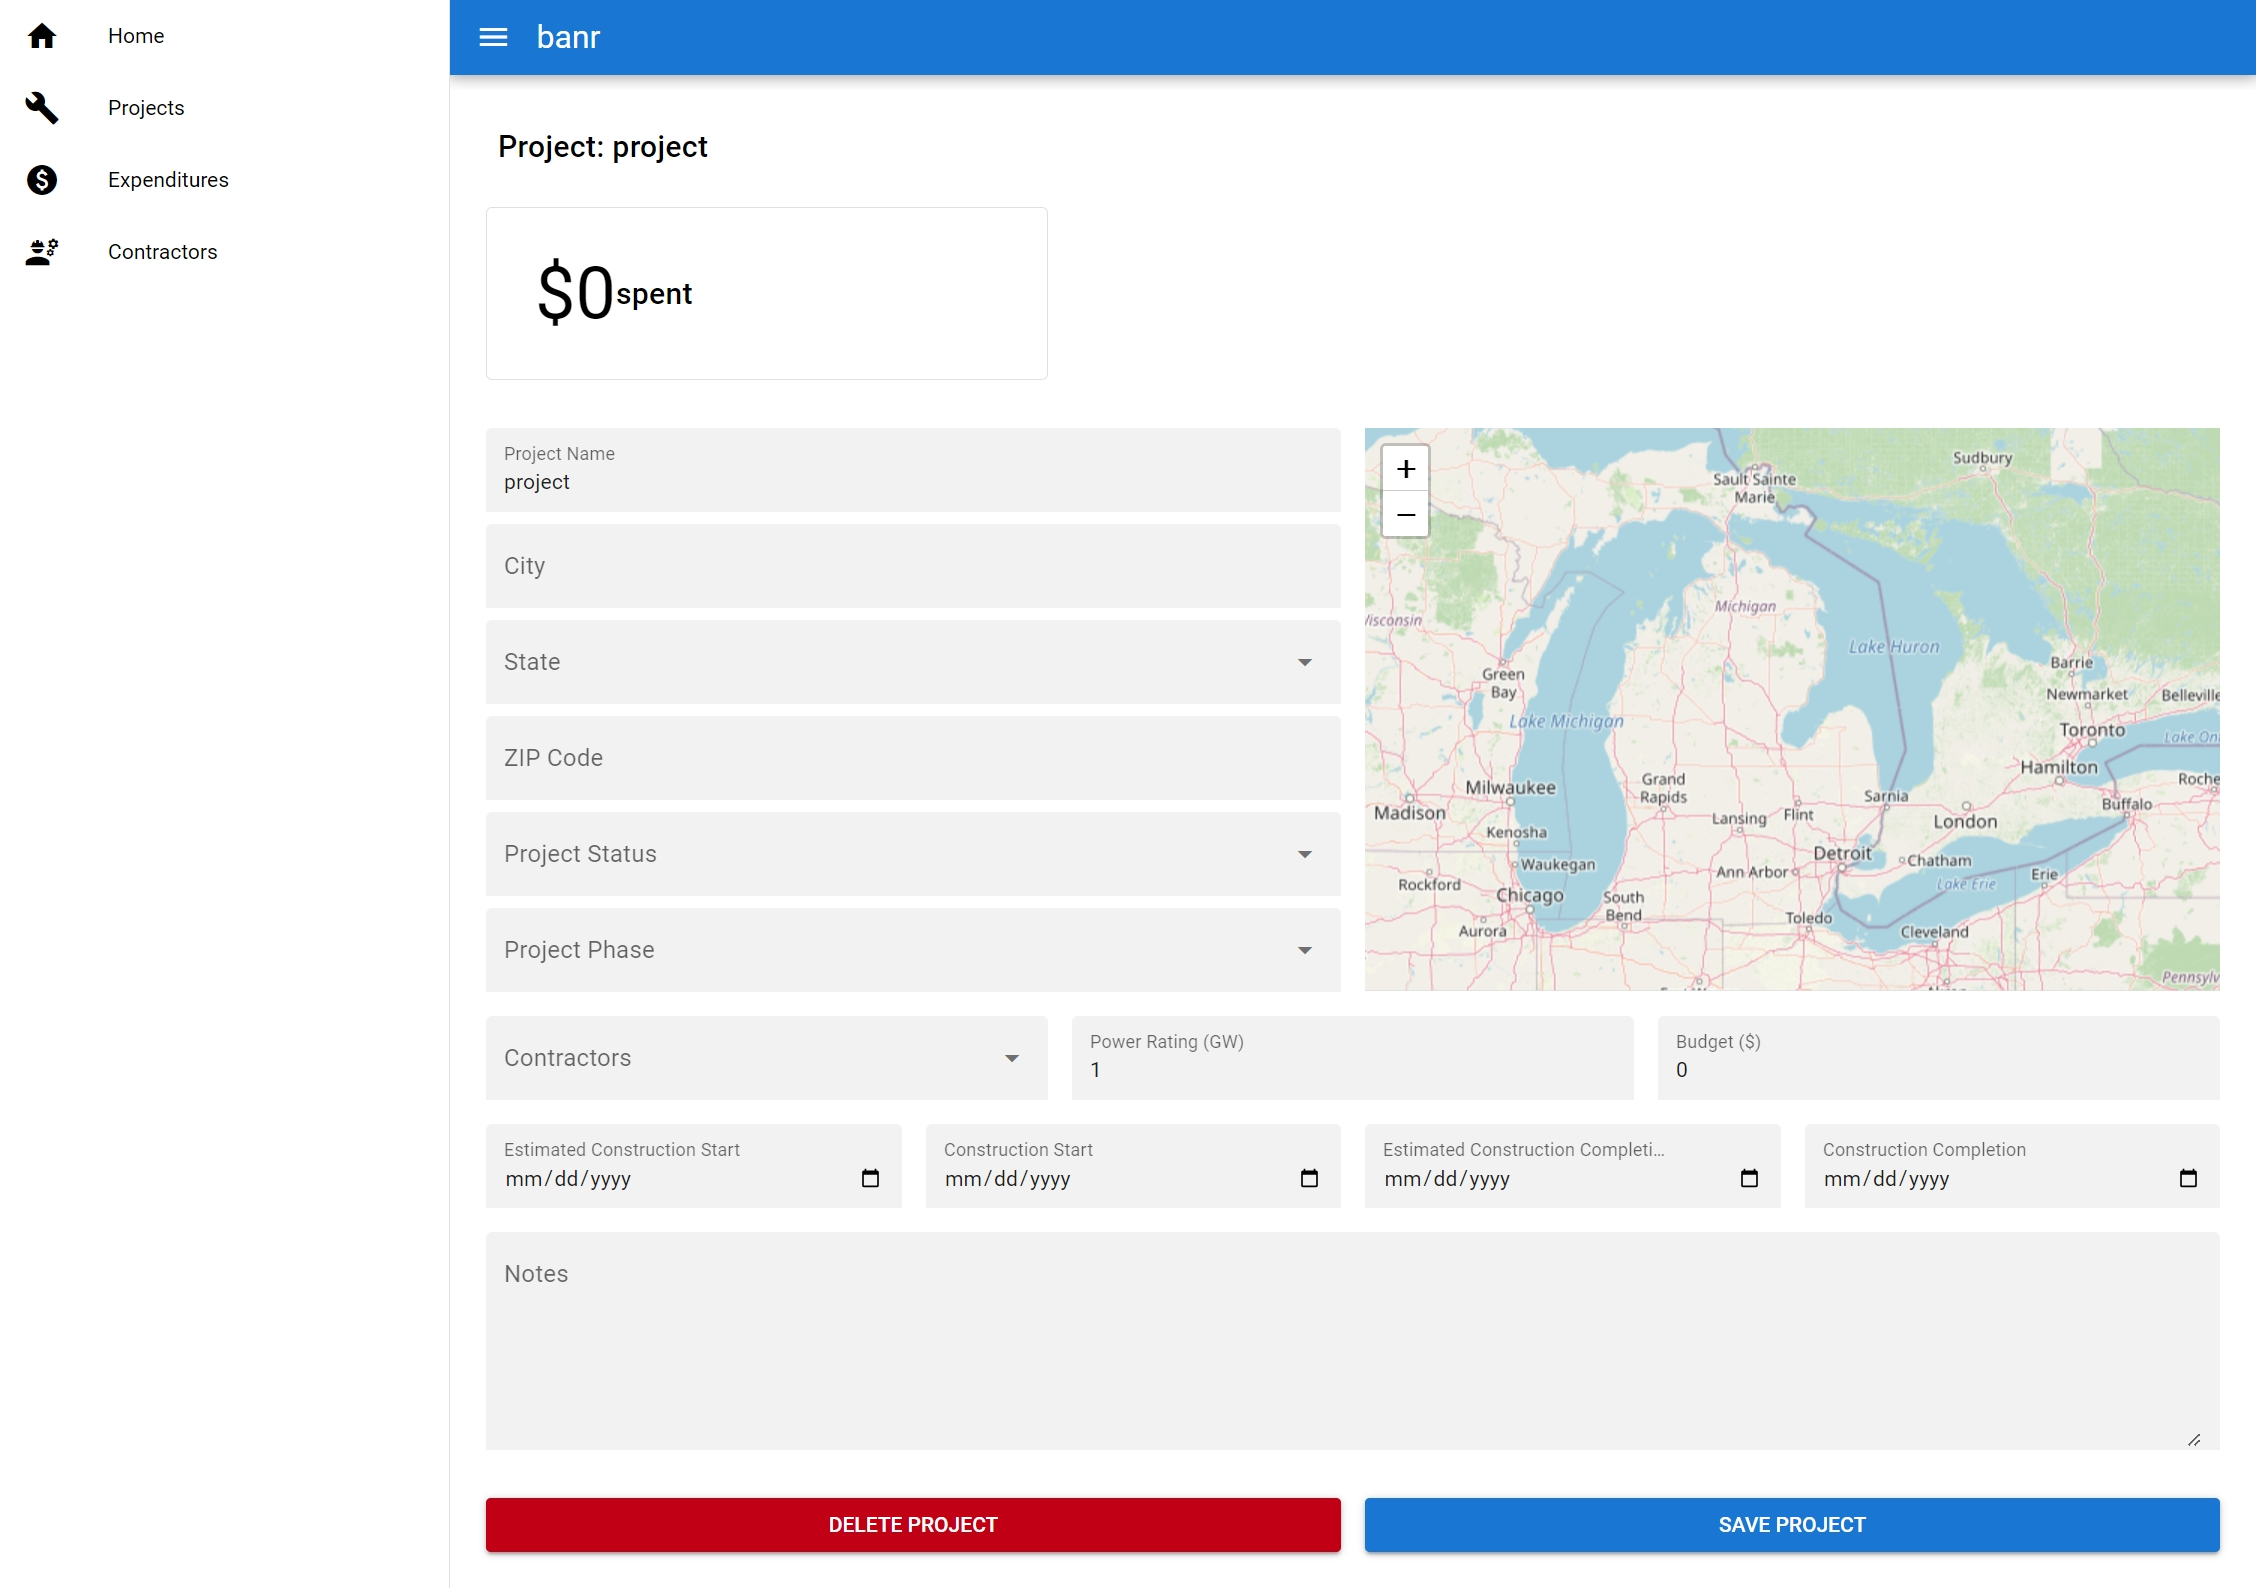
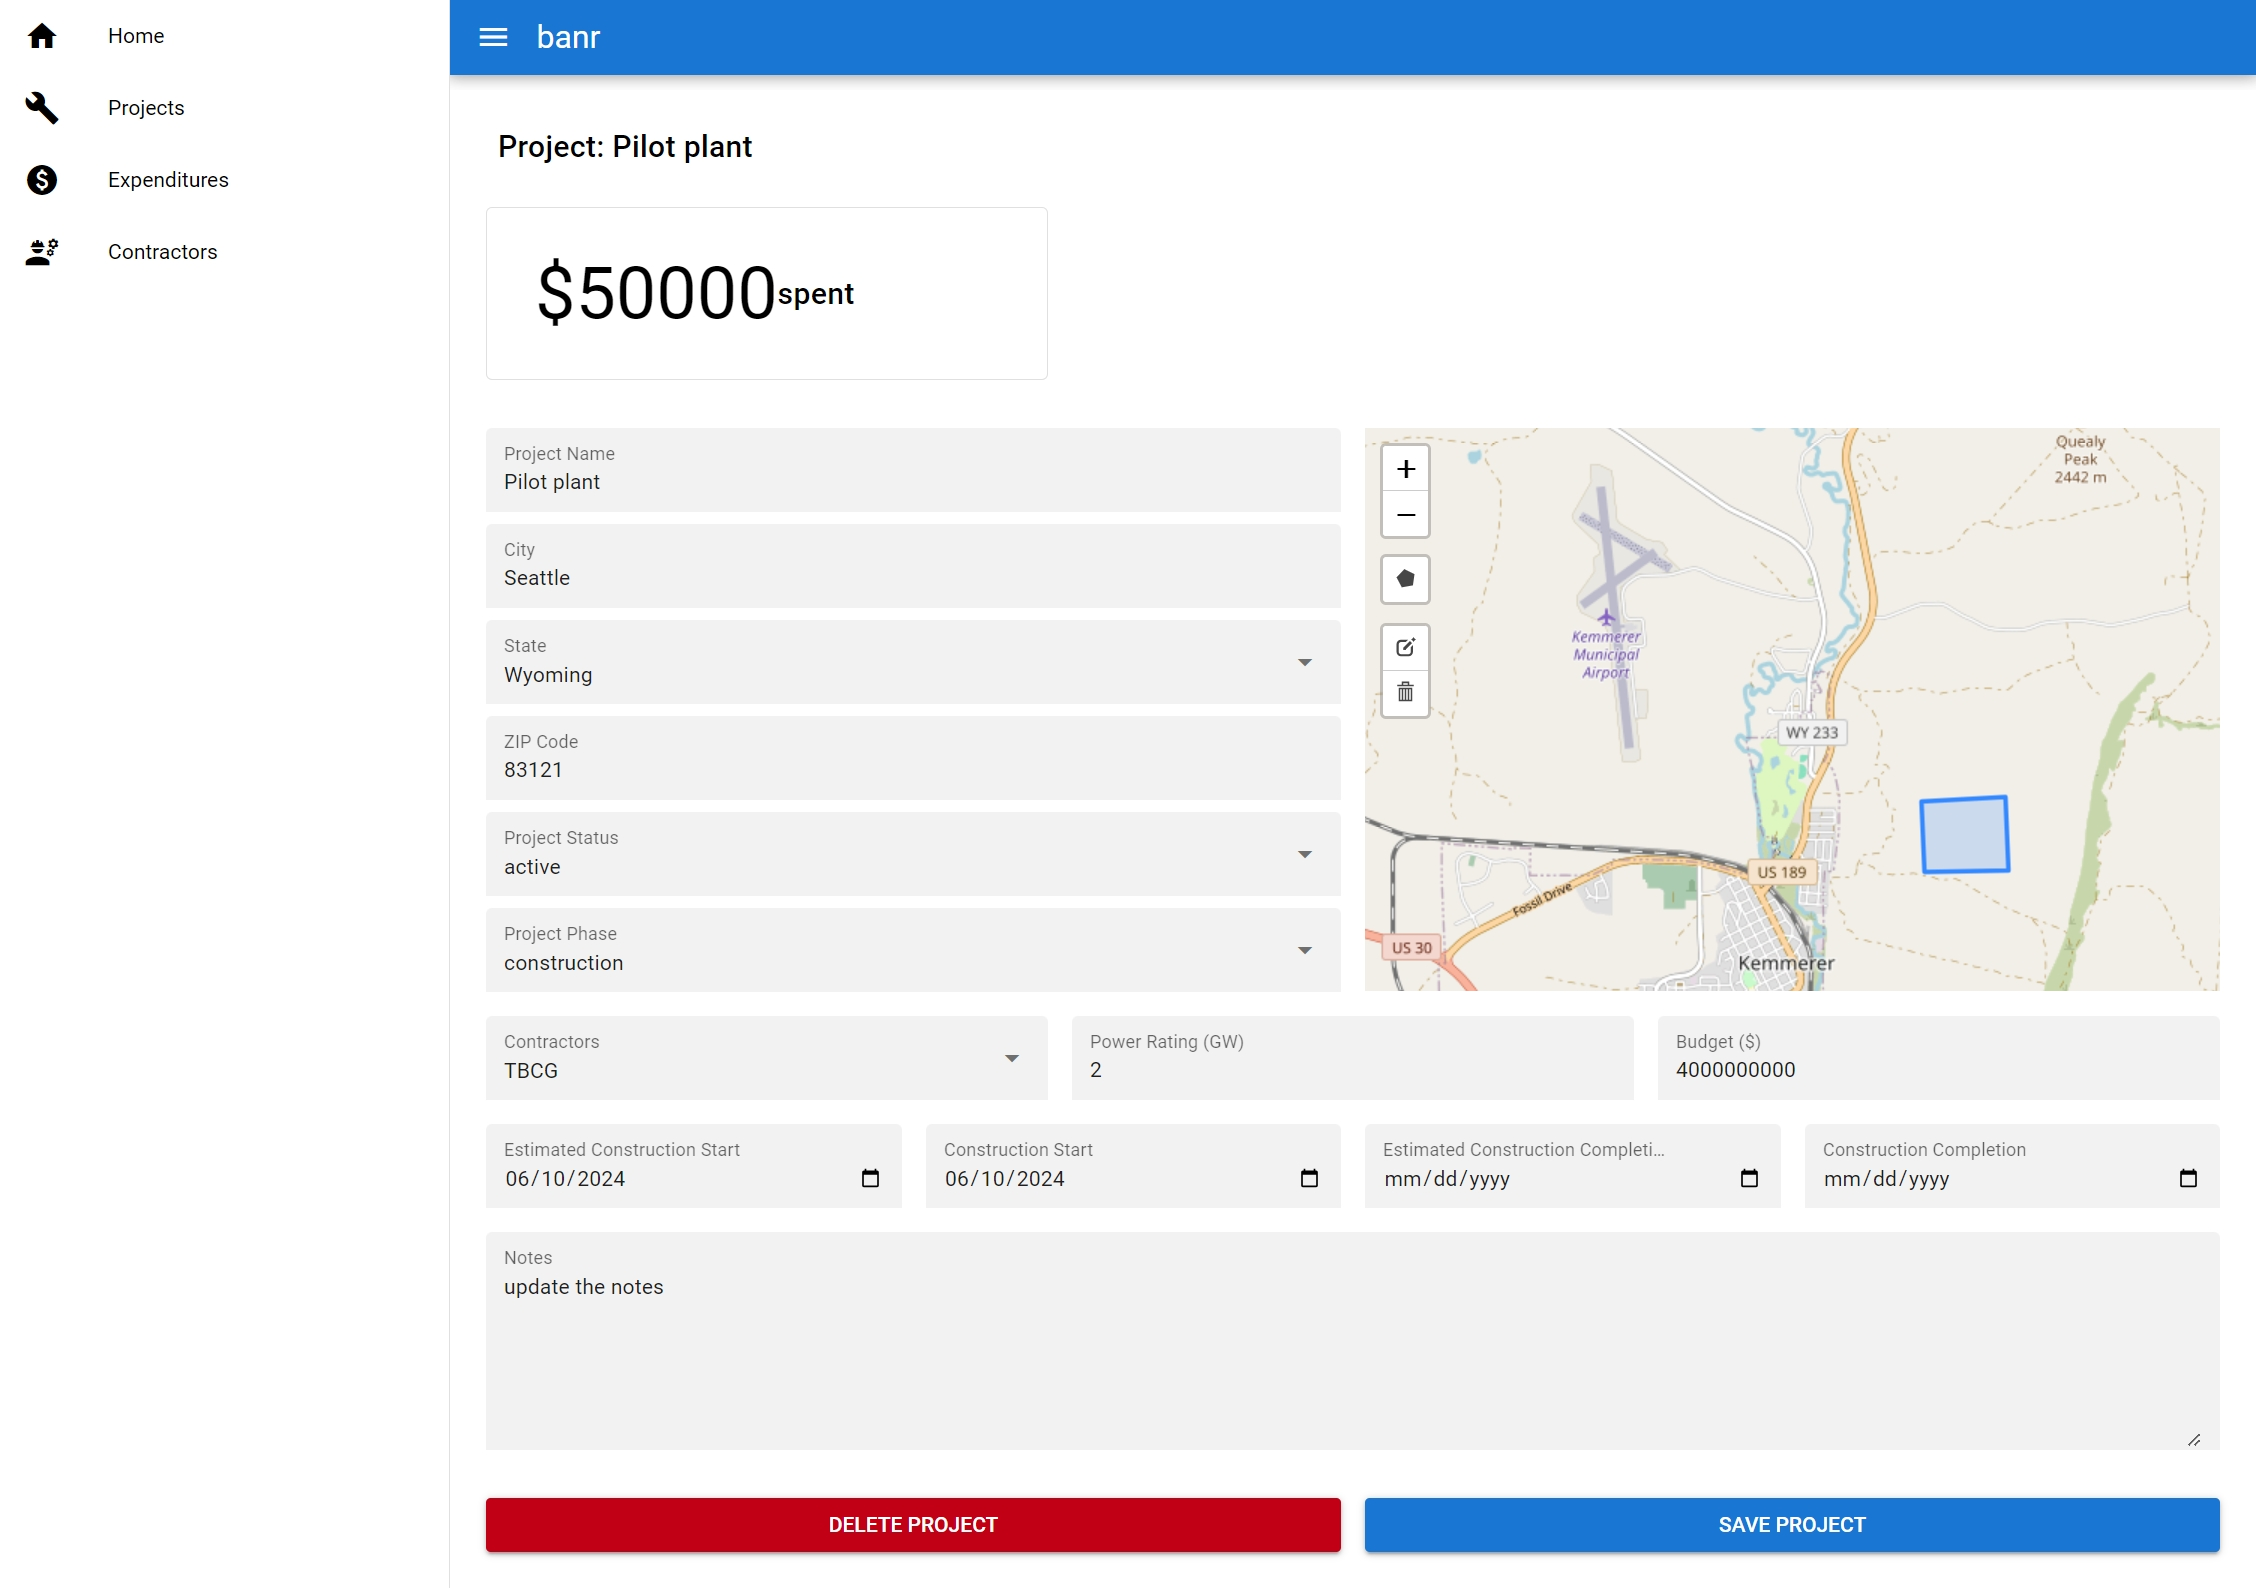
update module

diff --git a/client/src/pages/ProjectsDetailPage.vue b/client/src/pages/ProjectsDetailPage.vue
@@ -25,7 +25,7 @@
                         label="Project Phase" :disable="isLoading" />
                 </div>
                 <div class="col-12 col-md-6">
-                    <div class="q-ma-sm">
+                    <div v-if="project.zipcode" class="q-ma-sm">
                         <ProjectBoundaries @update-boundaries="onUpdateBoundaries" :zipcode="project.zipcode"
                             :projectSiteBoundaries="project.project_site_boundaries" />
                     </div>

diff --git a/README.md b/README.md
@@ -7,6 +7,8 @@ I created this project
 - bursh up on `django` which I have not used in a while
 - to learn about nuclear reactors and what goes into building them. 
 
+The backend contains 3 models `NuclearReactorConstructionProject`, `Expenditure`, `Contractor`. They correspond to 3 api endpoints `/projects`, `/expenditures`, and `/contractors`. I've implemented CRUD operations using the UI (see screenshots below).  
+
 ### Try it yourself
 The easiet way to launch the app is using docker compose. 
 
